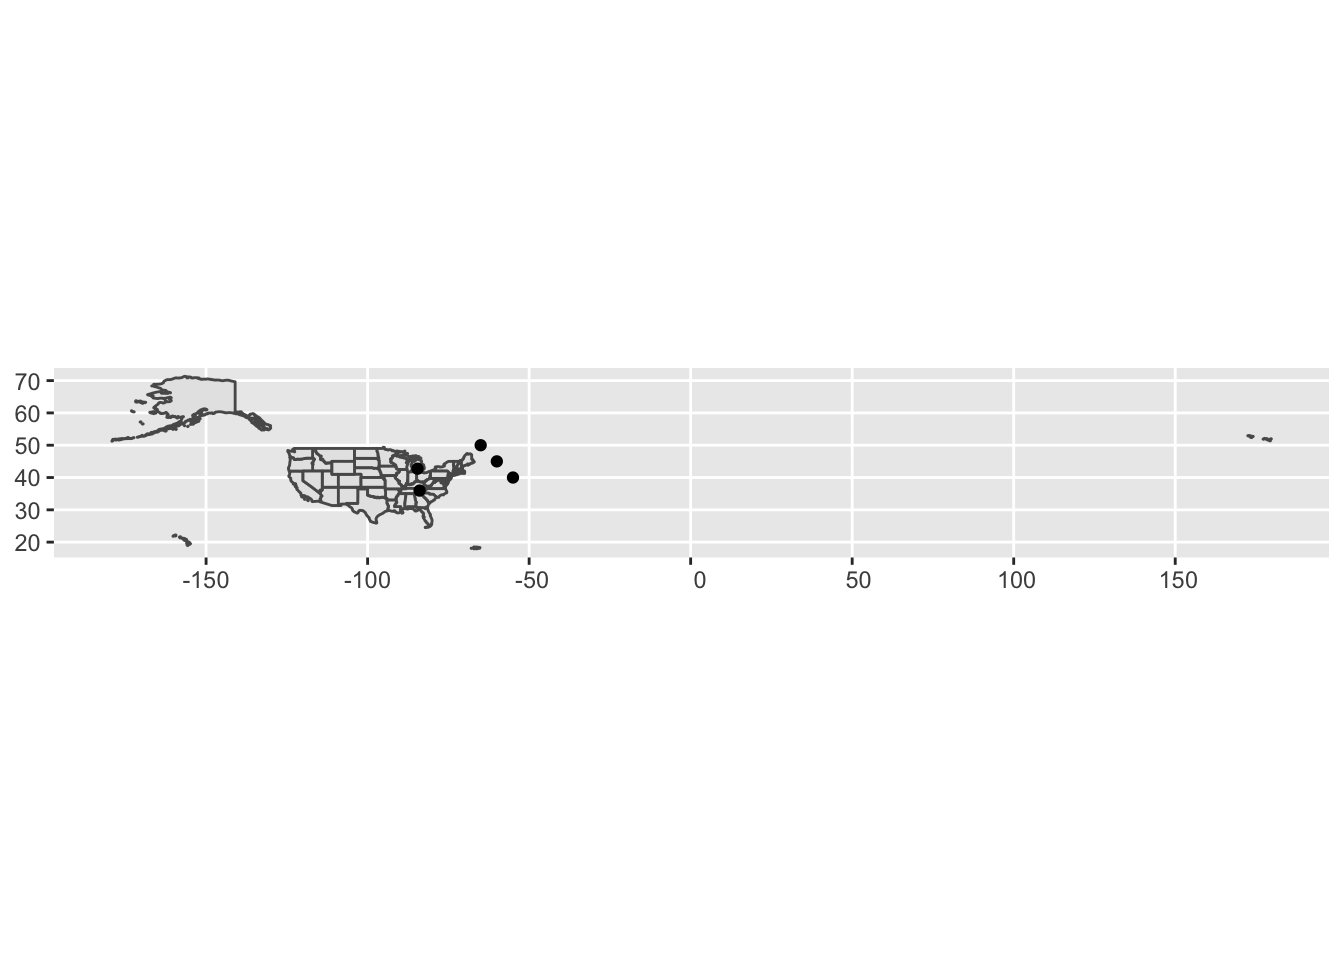
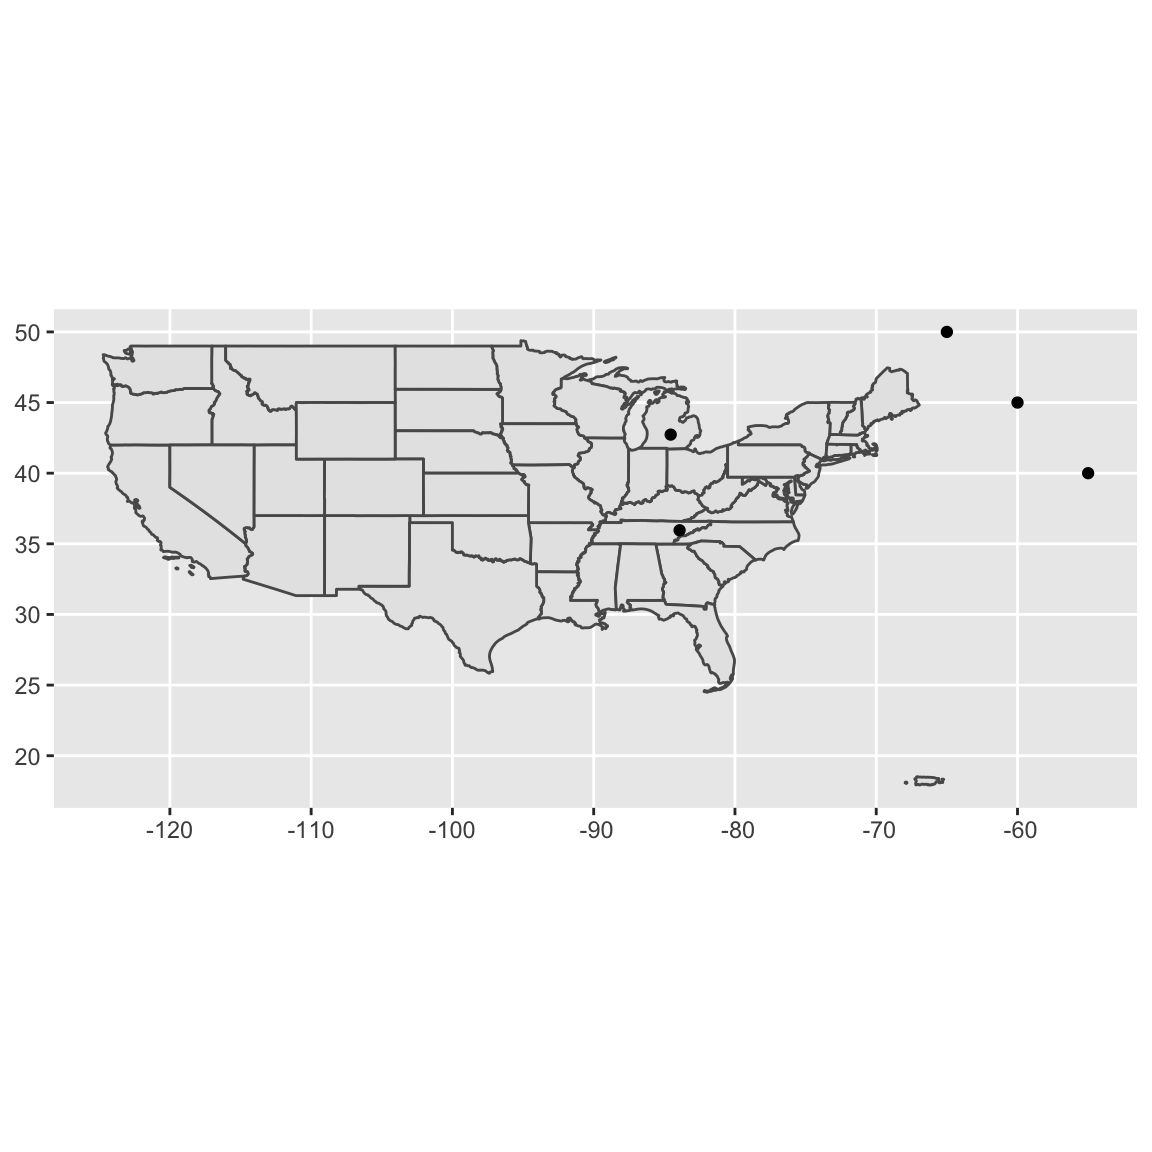
update

Changed region(s): [[0.0, 0.25, 1.0, 0.75]]

diff --git a/content/post/2020-06-15-basic-sf-functionality-for-analyzing-and-plotting-geospatial-data.html b/content/post/2020-06-15-basic-sf-functionality-for-analyzing-and-plotting-geospatial-data.html
@@ -140,10 +140,11 @@ logical vector).</p>
 <h2>Plotting</h2>
 <p><strong>sf</strong> objects can be plotted with ggplot2 using the <em>sf geom</em>; here is a plot
 of the state boundaries and the five points.</p>
+<p>I’ll plot only the continental U.S.</p>
 <pre class="r"><code>ggplot() +
-    geom_sf(data = USA) +
+    geom_sf(data = filter(USA, name != &quot;Hawaii&quot; &amp; name != &quot;Alaska&quot;)) +
     geom_sf(data = points)</code></pre>
-<p><img src="/post/2020-06-15-basic-sf-functionality-for-analyzing-and-plotting-geospatial-data_files/figure-html/unnamed-chunk-14-1.png" width="672" /></p>
+<p><img src="/post/2020-06-15-basic-sf-functionality-for-analyzing-and-plotting-geospatial-data_files/figure-html/unnamed-chunk-14-1.png" width="576" /></p>
 <p>Many packages make it easier to plot spatial data of interest. Here is a plot
 of all of the school districts in Tennessee.</p>
 <pre class="r"><code>library(leaidr)
